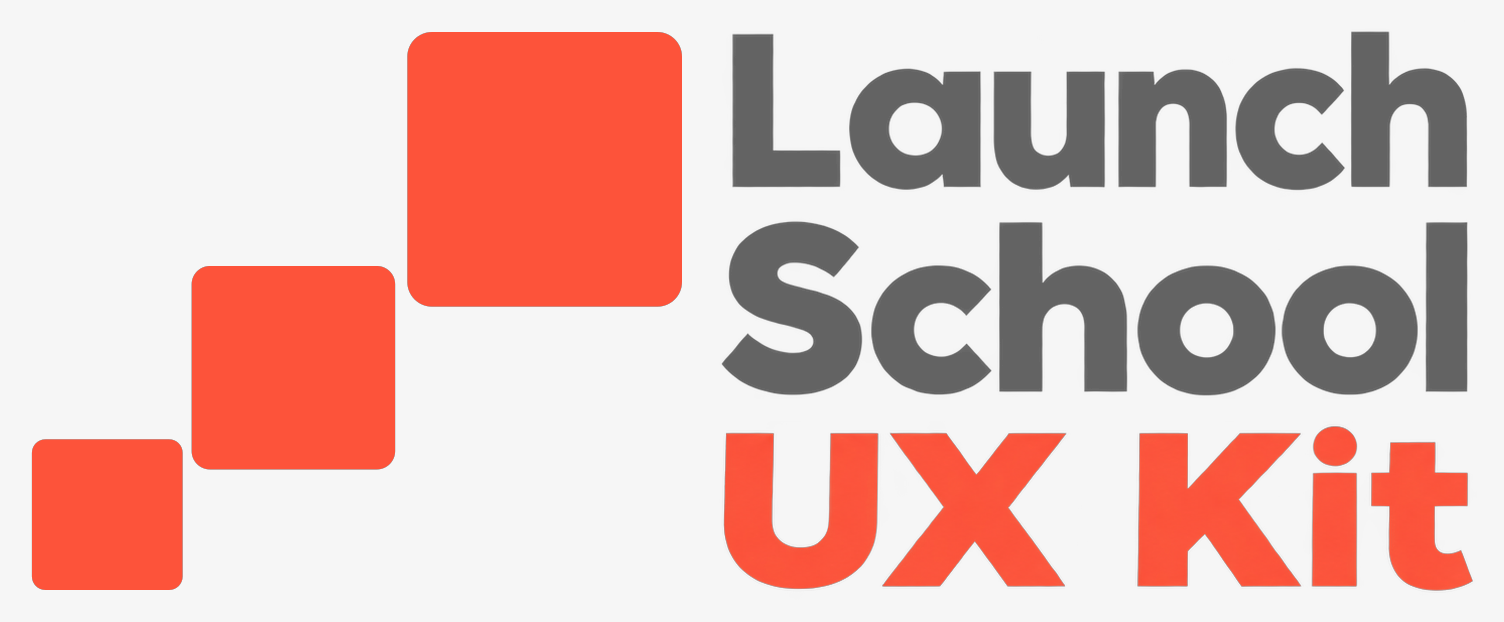
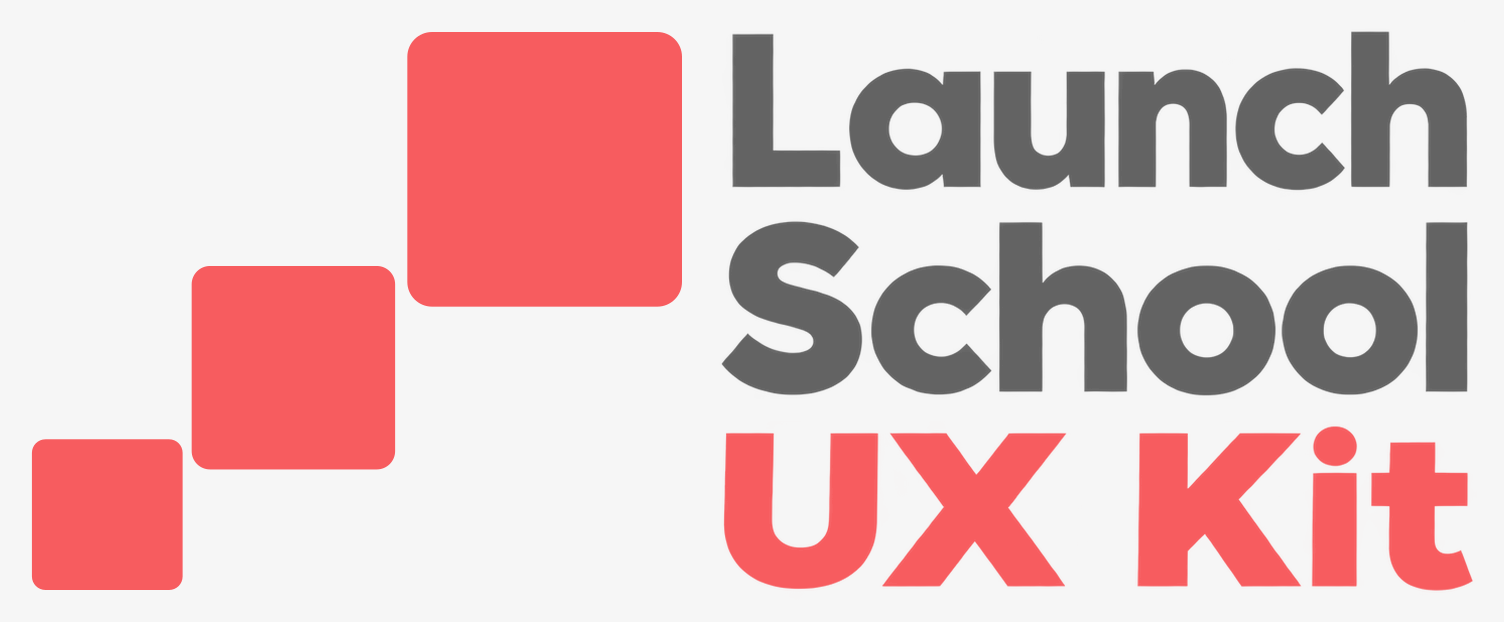
Update light preview coral and clean UX Kit edges

Changed region(s): [[0.0, 0.0305, 0.4688, 0.9469], [0.4688, 0.672, 0.7188, 0.9469], [0.75, 0.672, 1.0, 0.9469]]

diff --git a/docs/branding/README.md b/docs/branding/README.md
@@ -3,7 +3,7 @@
 ![Aligned logo on a dark background](preview.png)
 
 - Current aligned logo: [Dark-background PNG](launch-school-ux-kit-aligned-dark.png) · [Light-background PNG](launch-school-ux-kit-aligned.png) · [Dark-background SVG](launch-school-ux-kit-aligned-dark.svg) · [Light-background SVG](launch-school-ux-kit-aligned.svg)
-- [Light preview](preview-light.png): background `#F6F6F6` with Launch and School lettering in `#636363`.
+- [Light preview](preview-light.png): background `#F6F6F6`, Launch and School lettering in `#636363`, and squares and UX Kit lettering in `#F75C5F` with clean edges.
 - Previous image_gen refinement: [Dark-background PNG](launch-school-ux-kit-refined-dark.png) · [Light-background PNG](launch-school-ux-kit-refined.png) · [Dark preview](preview-refined.png)
 - [Selected image_gen foundation](imagegen-foundation.png)
 - [Refinement prompt](refinement-prompt.txt)
